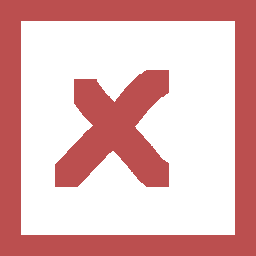
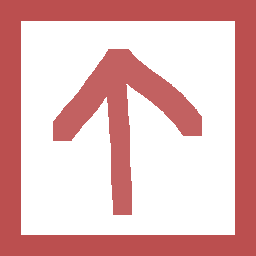
ターゲットマーカー対応

Changed region(s): [[0.1875, 0.1875, 0.8125, 0.8438]]

diff --git a/Assets/Object/Enemy/Shark/SharkController.cs b/Assets/Object/Enemy/Shark/SharkController.cs
@@ -1,5 +1,6 @@
 using System.Collections.Generic;
 using UnityEngine;
+using Utility;
 
 namespace ReLeaf
 {
@@ -93,7 +94,8 @@ namespace ReLeaf
                 targetMarkerManager.ResetAllMarker();
                 foreach (var target in mover.Targets)
                 {
-                    targetMarkerManager.SetMarker<TargetMarker>(target);
+                    var marker = targetMarkerManager.SetMarker<TargetMarker>(target);
+                    marker.transform.rotation = mover.ToTargetDir.GetRotation();
                 }
             }
 
